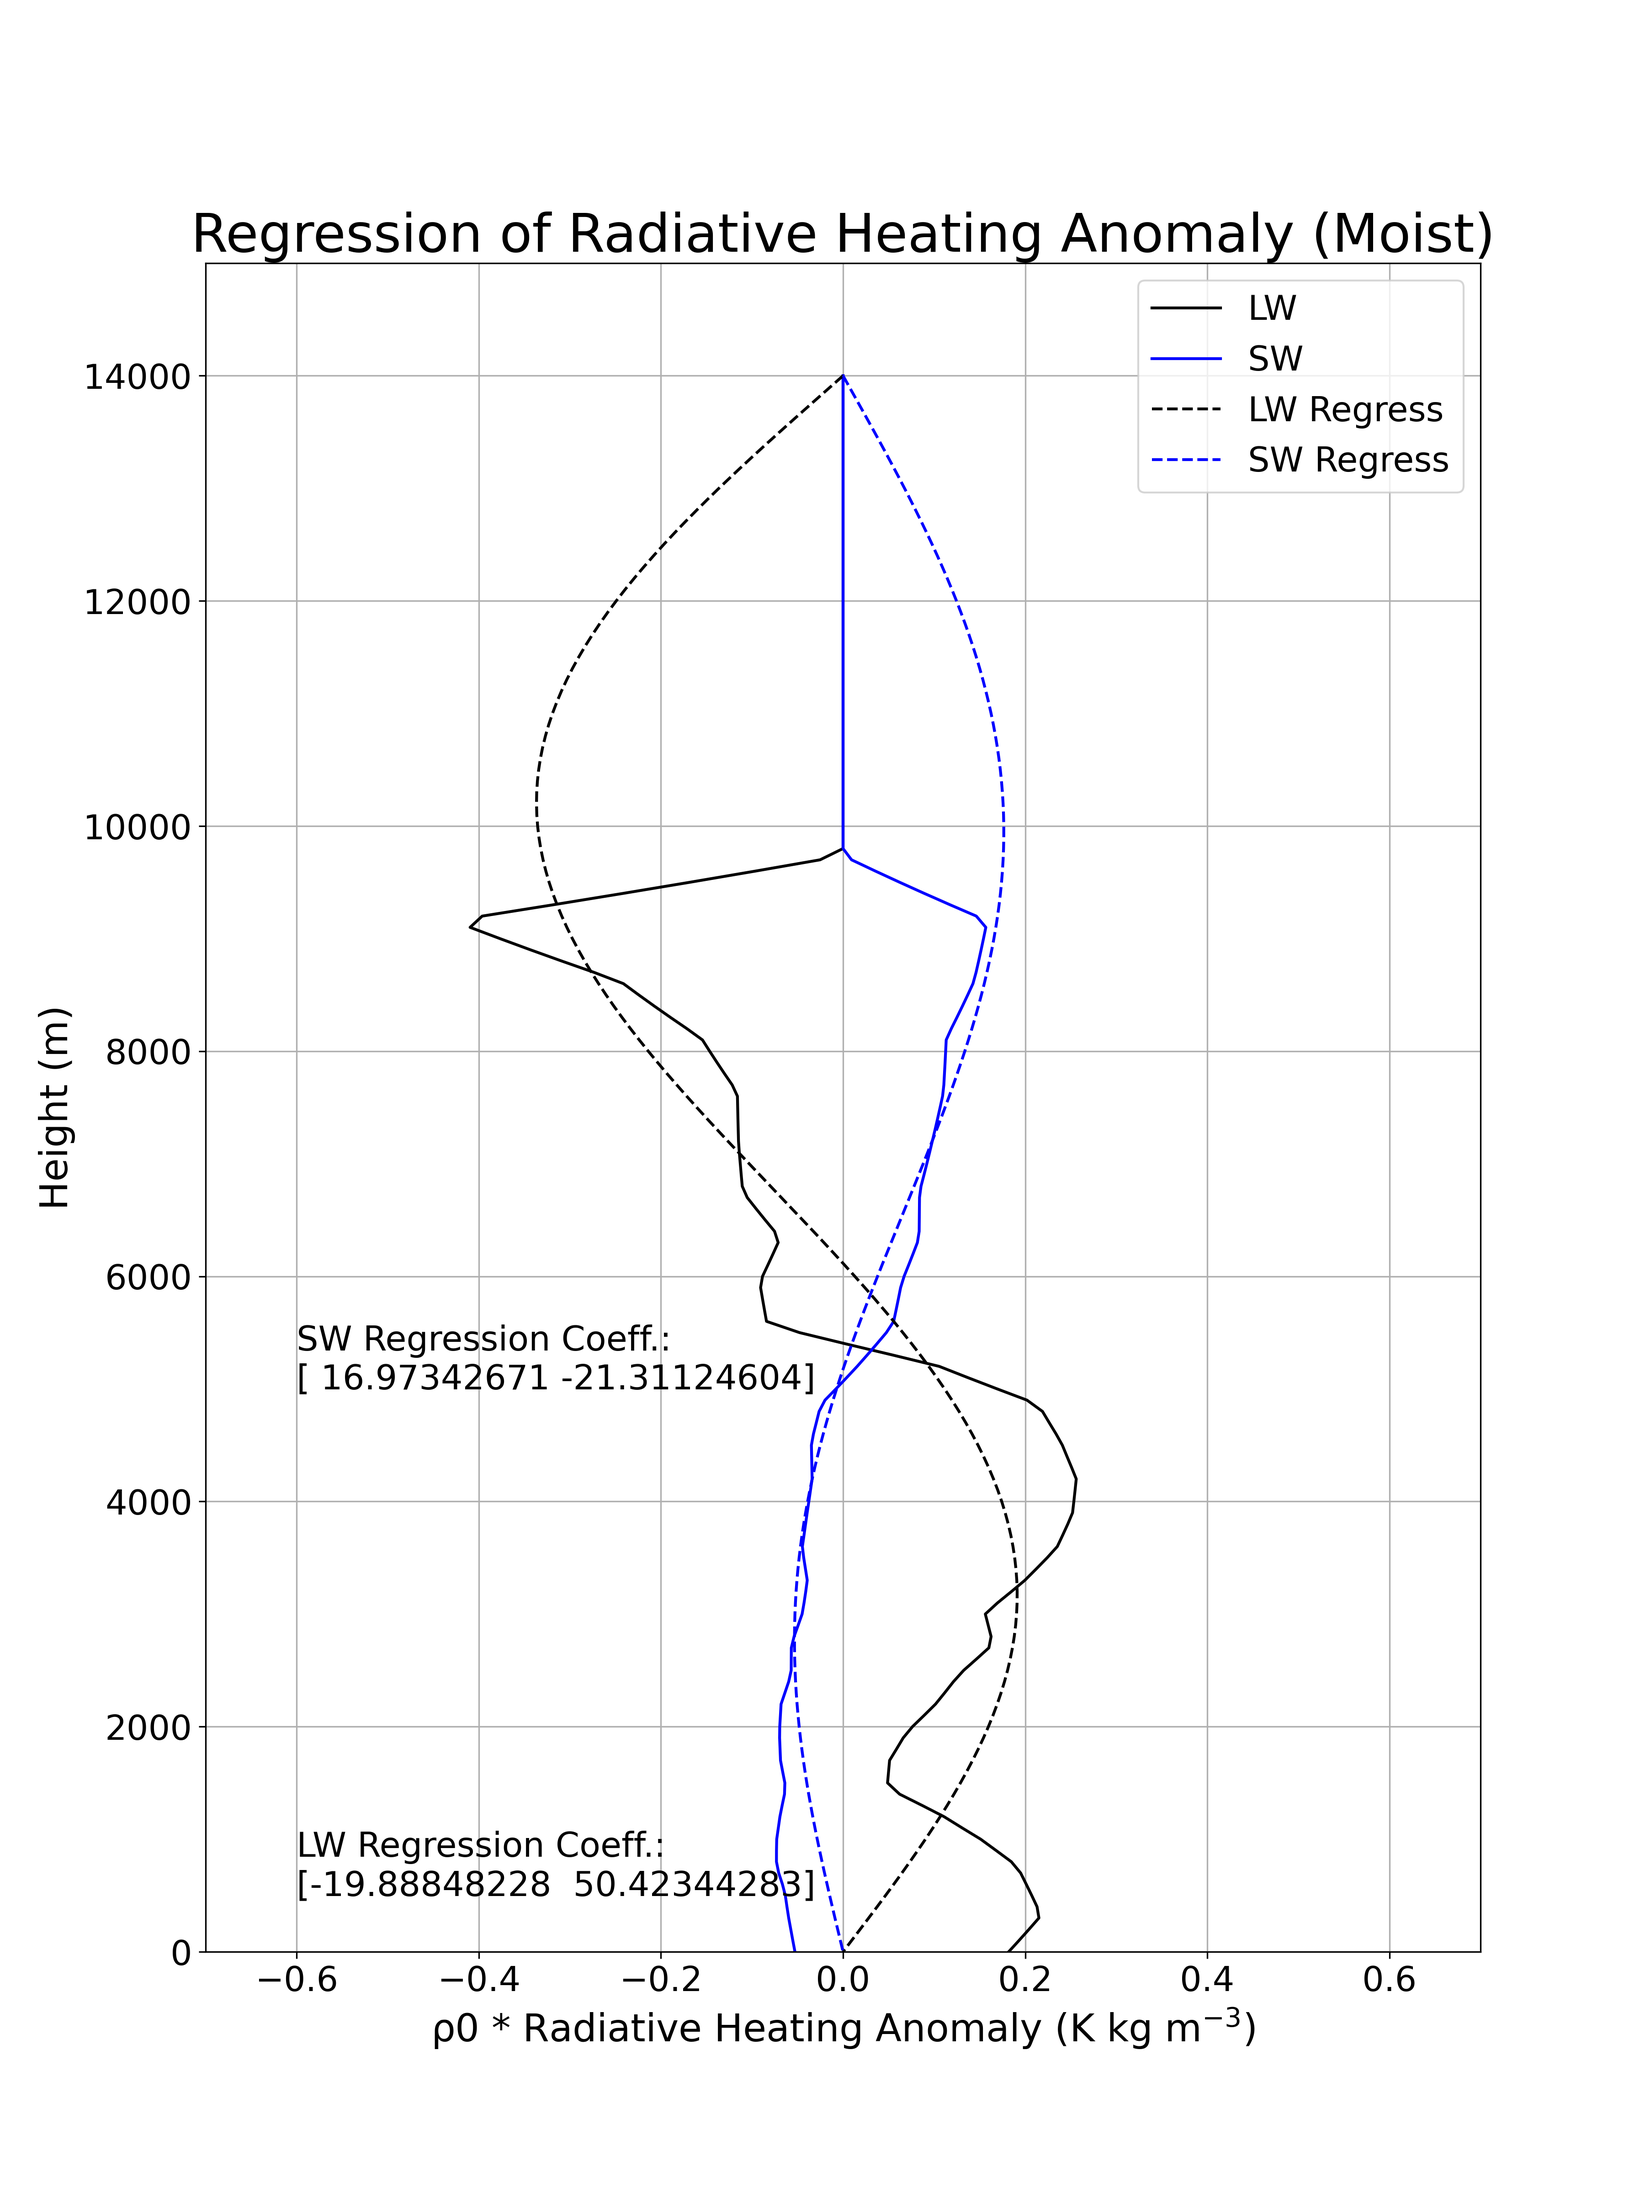
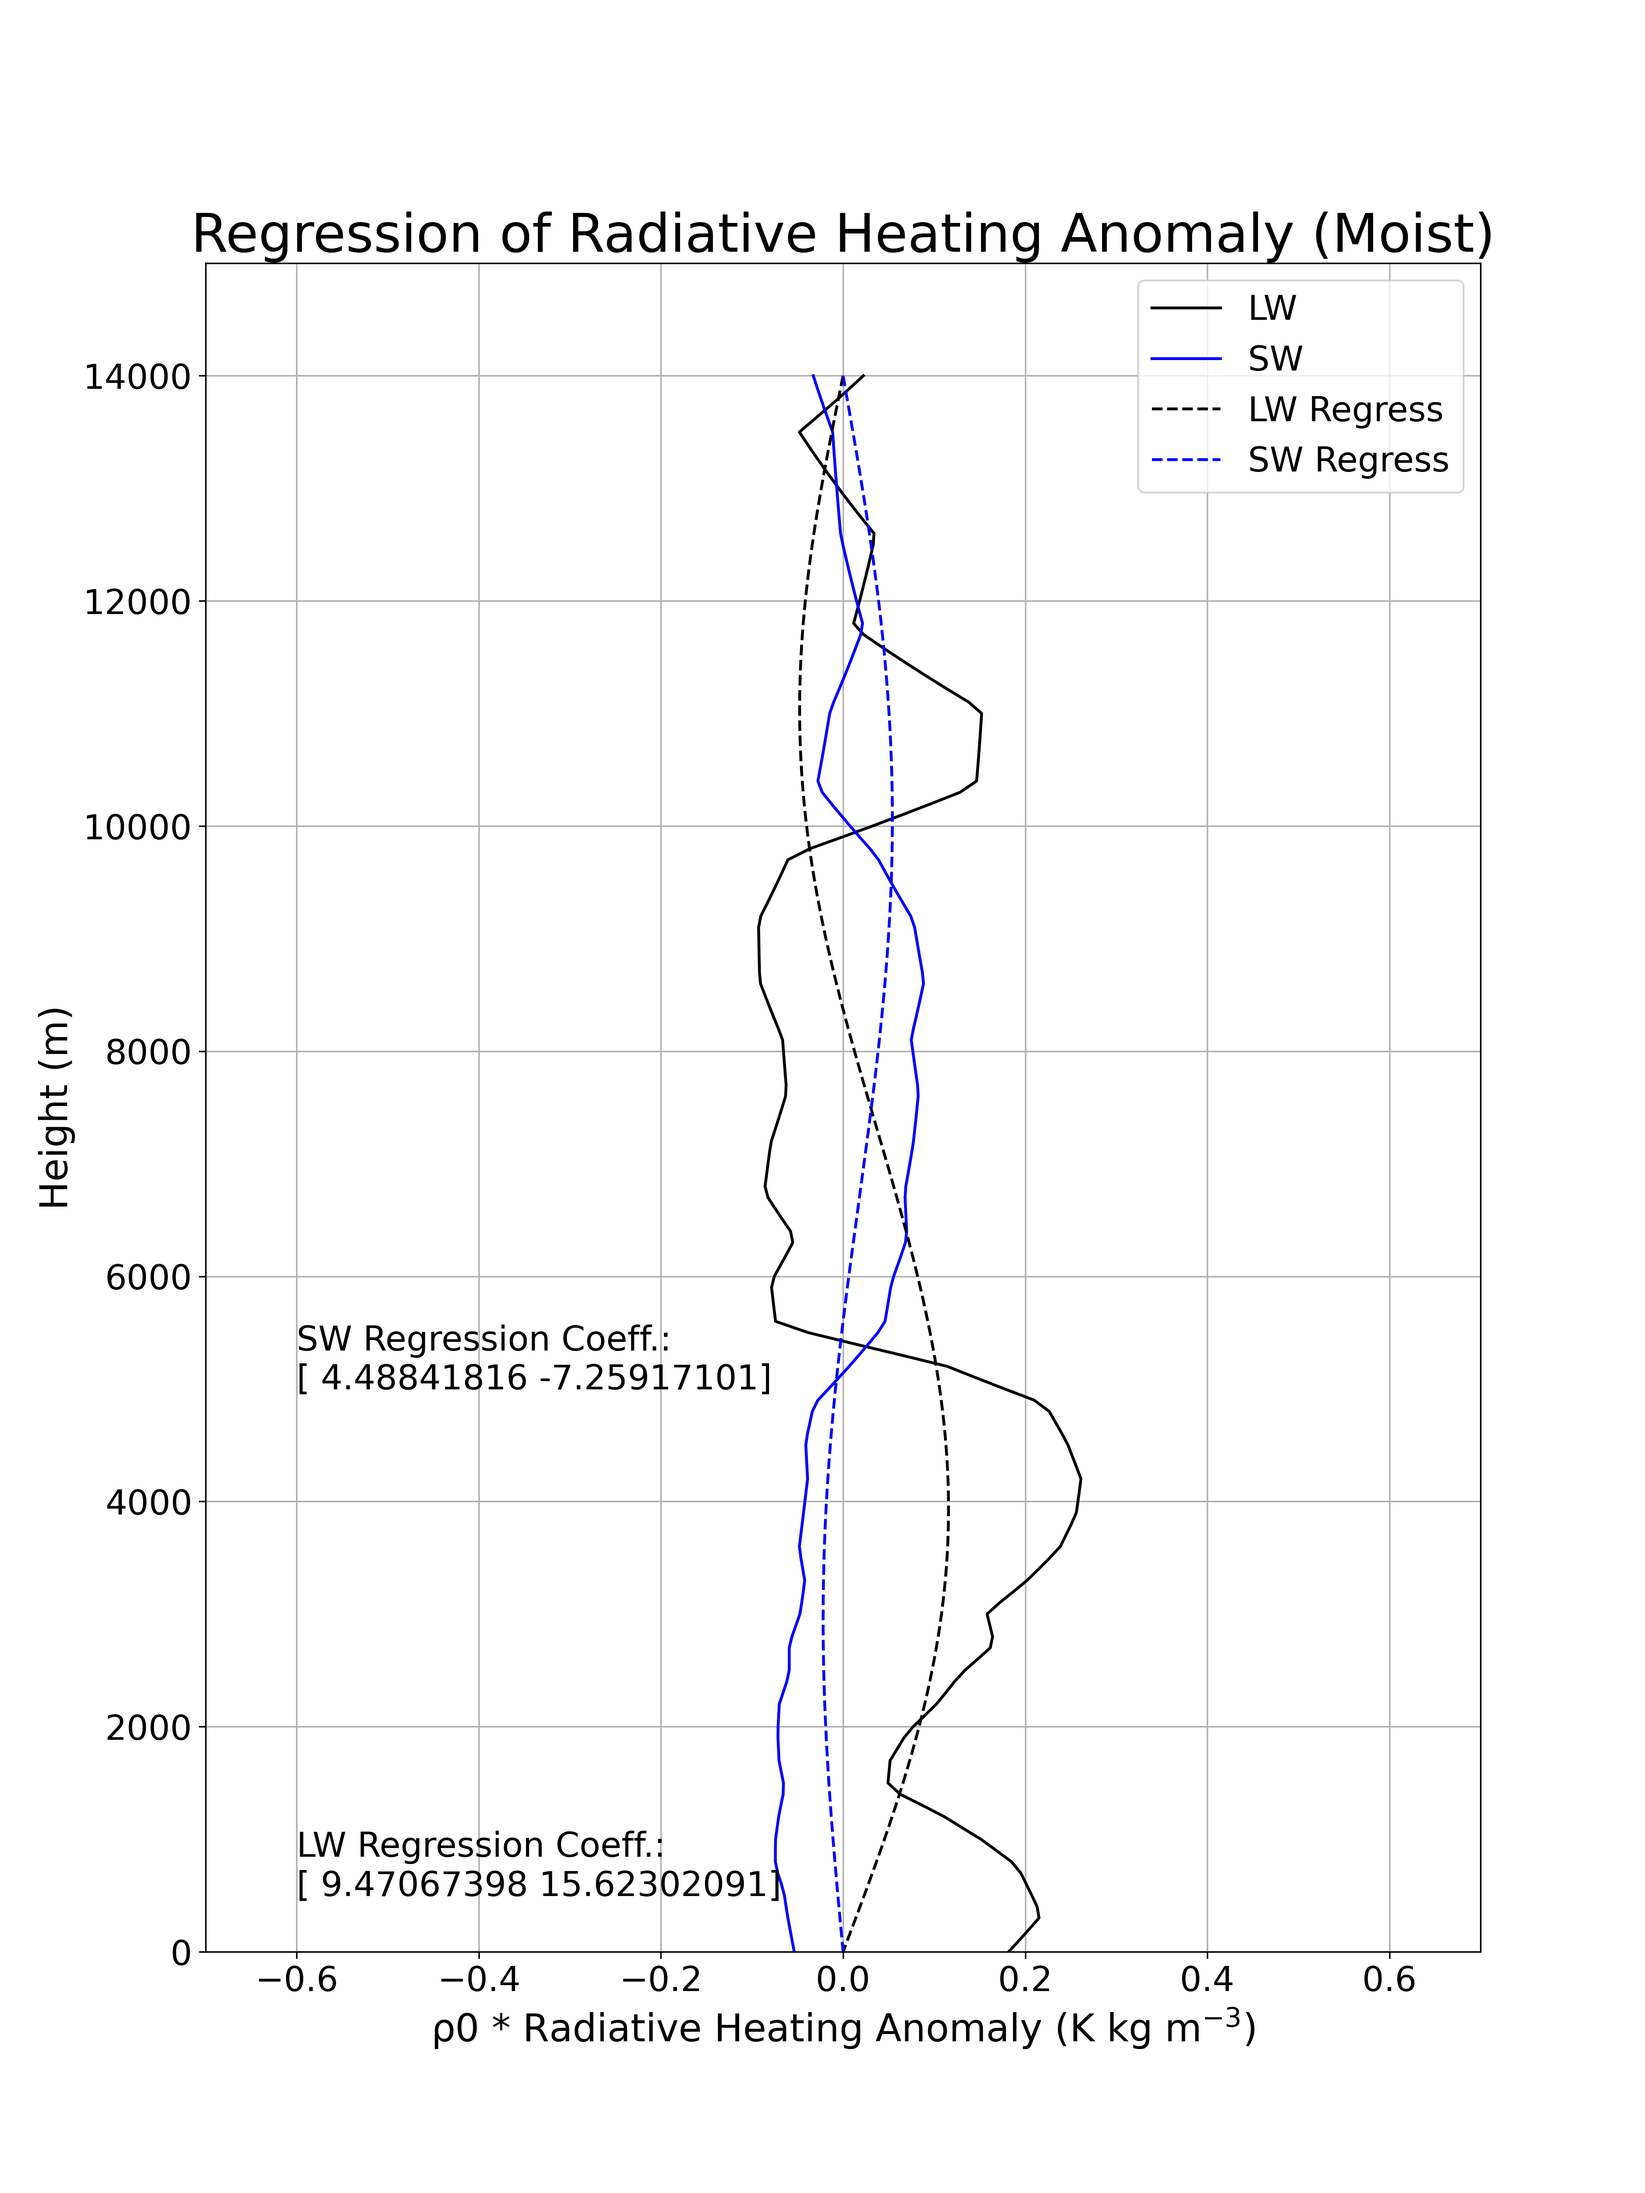
Extend to the top level

diff --git a/Code/LRF/Regress_rad.py b/Code/LRF/Regress_rad.py
@@ -27,10 +27,10 @@ def main():
     # ==== 2. set up vertical normal modes ==== #
     levs = np.linspace(100, 1000, 37);
 
-    lev_lim = np.argmin(np.abs(levs-300));
+    # lev_lim = np.argmin(np.abs(levs-300));
 
     z         = np.asarray(pressure_to_height_std(levs * units.hPa).to('m').m)
-    z300      = z[lev_lim];
+    # z300      = z[lev_lim];
 
     G1 = np.pi / 2.0 * np.sin(np.pi*z_itp/z_itp.max())* (-0.0065 + 9.8/1004.5);
     G2 = np.pi / 2.0 * np.sin(2*np.pi*z_itp/z_itp.max())* (-0.0065 + 9.8/1004.5);
@@ -39,7 +39,7 @@ def main():
     plt.plot(G2, z_itp, label="G2");
     plt.show()
 
-    modes = np.stack([G1[z_itp<=z300], G2[z_itp<=z300]], axis=0);
+    modes = np.stack([G1, G2], axis=0);
 
     # ==== 3. interpolate lw and sw to z_itp_lim ==== #
     lw_itp_q  = interp1d(z, lw_q, kind="linear", fill_value="extrapolate")(z_itp); #type: ignore
@@ -51,14 +51,14 @@ def main():
     lw_itp_g2 = interp1d(z, lw_g2, kind="linear", fill_value="extrapolate")(z_itp); #type: ignore
     sw_itp_g2 = interp1d(z, sw_g2, kind="linear", fill_value="extrapolate")(z_itp); #type: ignore
     
-    lw_q_coeff = (np.array((rho0*lw_itp_q)[z_itp<=z300]) @ np.array(modes.T)) @ np.linalg.inv(np.array(modes)@np.array(modes.T));
-    sw_q_coeff = (np.array((rho0*sw_itp_q)[z_itp<=z300]) @ np.array(modes.T)) @ np.linalg.inv(np.array(modes)@np.array(modes.T));
+    lw_q_coeff = (np.array((rho0*lw_itp_q)) @ np.array(modes.T)) @ np.linalg.inv(np.array(modes)@np.array(modes.T));
+    sw_q_coeff = (np.array((rho0*sw_itp_q)) @ np.array(modes.T)) @ np.linalg.inv(np.array(modes)@np.array(modes.T));
 
-    lw_g1_coeff = (np.array((rho0*lw_itp_g1)[z_itp<=z300]) @ np.array(modes.T)) @ np.linalg.inv(np.array(modes)@np.array(modes.T));
-    sw_g1_coeff = (np.array((rho0*sw_itp_g1)[z_itp<=z300]) @ np.array(modes.T)) @ np.linalg.inv(np.array(modes)@np.array(modes.T));
+    lw_g1_coeff = (np.array((rho0*lw_itp_g1)) @ np.array(modes.T)) @ np.linalg.inv(np.array(modes)@np.array(modes.T));
+    sw_g1_coeff = (np.array((rho0*sw_itp_g1)) @ np.array(modes.T)) @ np.linalg.inv(np.array(modes)@np.array(modes.T));
 
-    lw_g2_coeff = (np.array((rho0*lw_itp_g2)[z_itp<=z300]) @ np.array(modes.T)) @ np.linalg.inv(np.array(modes)@np.array(modes.T));
-    sw_g2_coeff = (np.array((rho0*sw_itp_g2)[z_itp<=z300]) @ np.array(modes.T)) @ np.linalg.inv(np.array(modes)@np.array(modes.T));
+    lw_g2_coeff = (np.array((rho0*lw_itp_g2)) @ np.array(modes.T)) @ np.linalg.inv(np.array(modes)@np.array(modes.T));
+    sw_g2_coeff = (np.array((rho0*sw_itp_g2)) @ np.array(modes.T)) @ np.linalg.inv(np.array(modes)@np.array(modes.T));
 
     plt.figure(figsize=(12, 16))
     plt.plot(rho0*lw_itp_q, z_itp, color="k", label="LW");

diff --git a/Code/LRF/Pert_rad.py b/Code/LRF/Pert_rad.py
@@ -13,7 +13,7 @@ def main():
     fpath = "/home/b11209013/2025_Research/MSI/File/";
 
     ## Load LRF
-    with h5py.File(fpath+"/LRF.h5", "r" ) as f:
+    with h5py.File(fpath+"Rad/LRF.h5", "r" ) as f:
 
         q_lw = np.array(f.get("q_lw"))
         q_sw = np.array(f.get("q_sw"))
@@ -60,12 +60,12 @@ def main():
     # plt.show()
     plt.close()
 
-    lw_moist_pert = np.array(q_lw.T) @ np.array(mean_moist_itp[:, None]);
-    sw_moist_pert = np.array(q_sw.T) @ np.array(mean_moist_itp[:, None]);
-    lw_g1_pert = np.array(t_lw.T) @ np.array(G1_itp[:, None]);
-    sw_g1_pert = np.array(t_sw.T) @ np.array(G1_itp[:, None]);
-    lw_g2_pert = np.array(t_lw.T) @ np.array(G2_itp[:, None]);
-    sw_g2_pert = np.array(t_sw.T) @ np.array(G2_itp[:, None]);
+    lw_moist_pert = np.array(q_lw) @ np.array(mean_moist_itp[:, None]);
+    sw_moist_pert = np.array(q_sw) @ np.array(mean_moist_itp[:, None]);
+    lw_g1_pert = np.array(t_lw) @ np.array(G1_itp[:, None]);
+    sw_g1_pert = np.array(t_sw) @ np.array(G1_itp[:, None]);
+    lw_g2_pert = np.array(t_lw) @ np.array(G2_itp[:, None]);
+    sw_g2_pert = np.array(t_sw) @ np.array(G2_itp[:, None]);
 
     plt.figure(figsize=(6, 8))
     plt.plot(lw_moist_pert, np.linspace(100, 1000, 37))

diff --git a/Code/LRF/RRTMG_LRF.py b/Code/LRF/RRTMG_LRF.py
@@ -27,7 +27,7 @@ import Plot_Style as ps; # type: ignore
 ps.apply_custom_plot_style();
 
 # Load data
-with h5py.File("/home/b11209013/2025_Research/MSI/File/mean_state.h5", "r") as f:
+with h5py.File("/home/b11209013/2025_Research/MSI/File/Rad/mean_state.h5", "r") as f:
     q_mean = np.array(f.get("q"))[::-1];
     t_mean = np.array(f.get("t"))[::-1];
 
@@ -115,11 +115,11 @@ for l in range(nlev):
 # In[27]:
 
 
-for key in LRF.keys():
-    temp_resp = np.zeros((nlev, nlev));
+# for key in LRF.keys():
+#     temp_resp = np.zeros((nlev, nlev));
 
-    temp_resp[lev_lim:, lev_lim:] = LRF[key][lev_lim:, lev_lim:];
-    LRF[key] = temp_resp;
+#     temp_resp[lev_lim:, lev_lim:] = LRF[key][lev_lim:, lev_lim:];
+#     LRF[key] = temp_resp;
 
 # Save files
 with h5py.File("/home/b11209013/2025_Research/MSI/File/Rad/LRF.h5", "w") as f: 

diff --git a/Code/LRF/mean_tq.py b/Code/LRF/mean_tq.py
@@ -21,7 +21,7 @@ def main():
 
 
     # ==== 2. save file ==== #
-    with h5py.File("/home/b11209013/2025_Research/MSI/File/mean_state.h5", "w") as f:
+    with h5py.File("/home/b11209013/2025_Research/MSI/File/Rad/mean_state.h5", "w") as f:
         f.create_dataset("q", data=q_mean);
         f.create_dataset("t", data=t_mean);
 
